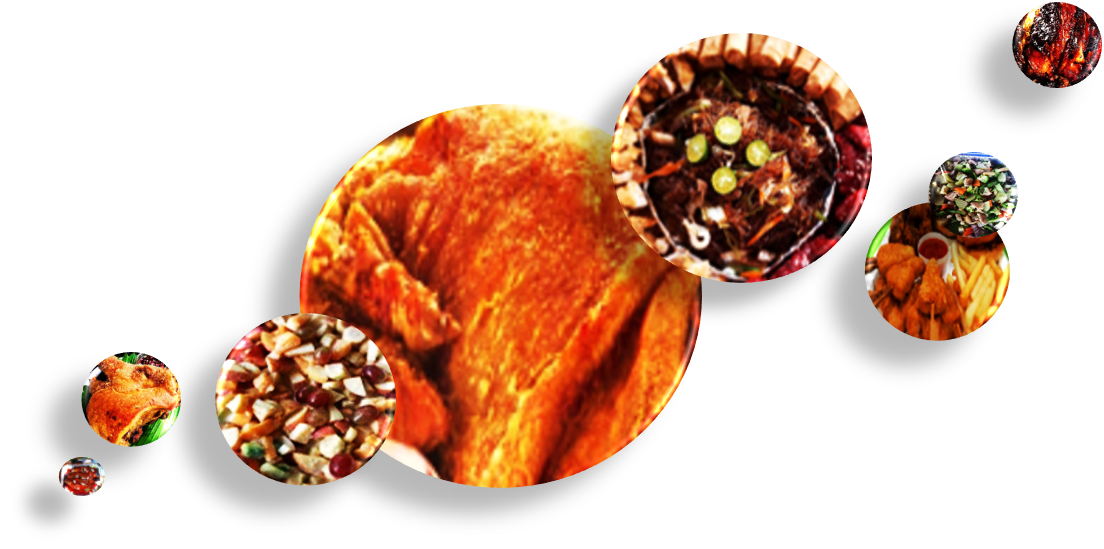
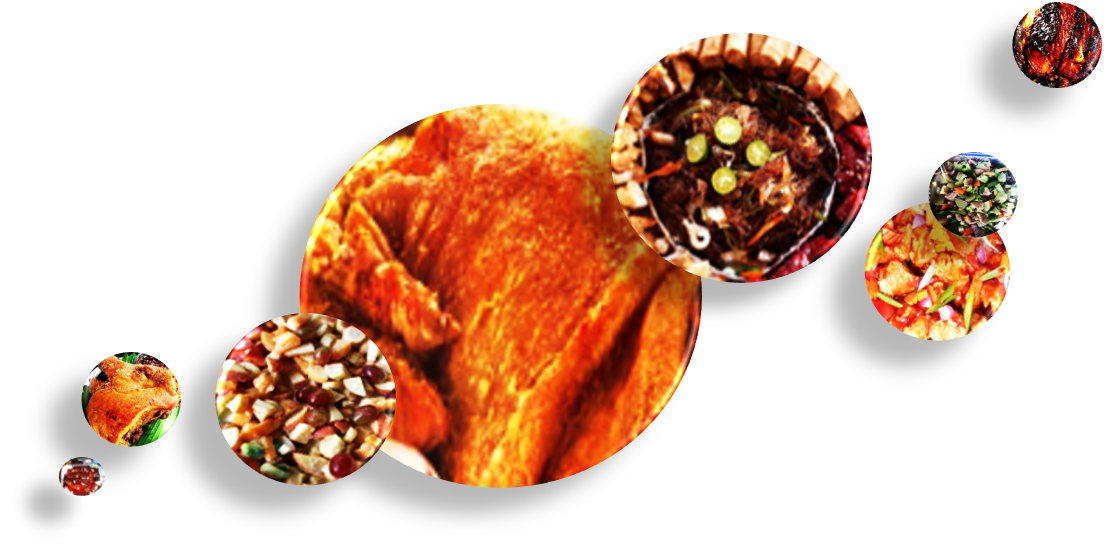
sixth commit

Changed region(s): [[0.7699, 0.3716, 0.9239, 0.6193]]

diff --git a/service.html b/service.html
@@ -2,7 +2,7 @@
 <html>
 <head>
 	<meta charset="utf-8">
-	<meta name="keywords" content=" MG Food Services and Catering Services Maramag Bukidnon Philippines">
+	<meta name="keywords" content="MG Food Services and Catering Services Maramag Bukidnon Philippines">
 	<meta name="description" content="MG Food Services and Catering Services located at Purok 2, Maramag, Philippines.">
 	<meta name="author" content="Witnhess B. Baquirquir">
 	<meta http-equiv="refresh" content="30">
@@ -285,6 +285,77 @@ body {
 						<div class="user user-img13"></div>
 				</div>
 			</li>
+			<!--14----------------------------------------->
+			<li class="item-a">
+				<!--slider------------>
+				<div class="box box-img14"> 
+					<!--details----->
+						<div class="slide-detail">
+							<p>BILAO PACKAGE 08</p>
+							<p>PRICE: N/A</p>
+			
+							</div>
+					<!--user-icon--->
+						<div class="user user-img14"></div>
+				</div>
+			</li>
+			<!--15----------------------------------------->
+			<li class="item-a">
+				<!--slider------------>
+				<div class="box box-img15"> 
+					<!--details----->
+						<div class="slide-detail">
+							<p>BILAO PACKAGE 09</p>
+							<p>PRICE: N/A</p>
+			
+							</div>
+					<!--user-icon--->
+						<div class="user user-img15"></div>
+				</div>
+			</li>
+			<!--16----------------------------------------->
+			<li class="item-a">
+				<!--slider------------>
+				<div class="box box-img16"> 
+					<!--details----->
+						<div class="slide-detail">
+							<p>PALUWAGAN PACKAGE 05</p>
+							<p>PRICE: N/A</p>
+			
+							</div>
+					<!--user-icon--->
+						<div class="user user-img16"></div>
+				</div>
+			</li>
+			<!--17----------------------------------------->
+			<li class="item-a">
+				<!--slider------------>
+				<div class="box box-img17"> 
+					<!--details----->
+						<div class="slide-detail">
+							<p>PALUWAGAN PACKAGE 06</p>
+							<p>PRICE: N/A</p>
+			
+							</div>
+					<!--user-icon--->
+						<div class="user user-img17"></div>
+				</div>
+			</li>
+			<!--18----------------------------------------->
+			<li class="item-a">
+				<!--slider------------>
+				<div class="box box-img18"> 
+					<!--details----->
+						<div class="slide-detail">
+							<p>PALUWAGAN PACKAGE 07</p>
+							<p>PRICE: N/A</p>
+			
+							</div>
+					<!--user-icon--->
+						<div class="user user-img18"></div>
+				</div>
+			</li>
+			
 		</ul>
 		
 	</div>

diff --git a/sample.css b/sample.css
@@ -511,6 +511,36 @@ span {
 
 
 
+@media screen and (min-width: 407px) {
+	.box{
+	width:340px;
+	height:520px;
+	border-radius:5px;
+	box-shadow:2px 6px 30px rgba(0,0,0,0.1);
+	background-color:#fGfGfG;
+	margin:30px;
+	position:relative;
+	background-position:center;
+	background-size:cover;
+	background-repeat:no-repeat;
+	}
+}
+@media screen and (max-width: 406px) {
+	.box{
+	width:220px;
+	height:400px;
+	border-radius:5px;
+	box-shadow:2px 6px 30px rgba(0,0,0,0.1);
+	background-color:#fGfGfG;
+	margin:30px;
+	position:relative;
+	background-position:center;
+	background-size:cover;
+	background-repeat:no-repeat;
+	}
+}
+
+
 
 
 
@@ -745,18 +775,7 @@ button:active {
 	margin-bottom:80px;
 	padding-top: 0px;
 }	
-.box{
-	width:340px;
-	height:520px;
-	border-radius:5px;
-	box-shadow:2px 6px 30px rgba(0,0,0,0.1);
-	background-color:#fGfGfG;
-	margin:30px;
-	position:relative;
-	background-position:center;
-	background-size:cover;
-	background-repeat:no-repeat;
-	}
+
 .box p {
 	font-family:calibri;
 	text-align:center;
@@ -832,6 +851,21 @@ button:active {
 	}
 .box-img13{
 	background-image:url("image/img13.png");
+	}
+.box-img14{
+	background-image:url("image/img14.png");
+	}
+.box-img15{
+	background-image:url("image/img15.png");
+	}
+.box-img16{
+	background-image:url("image/img16.png");
+	}
+.box-img17{
+	background-image:url("image/img17.png");
+	}
+.box-img18{
+	background-image:url("image/img18.png");
 	}
 .user-img01{
 	background-image:url("image/1.png");

diff --git a/index.html b/index.html
@@ -11,7 +11,7 @@
 	<link rel="stylesheet" type="text/css" href="sample.css">
 	<link href="https://fonts.googleapis.com/css?family=Arvo&display=swap" rel="stylesheet">
 	<link href="https://fonts.googleapis.com/css?family=Raleway:400,400i,700" rel="stylesheet">
-	<link rel="stylesheet" type="tex	t/css" href="lightslider.css">
+	<link rel="stylesheet" type="text/css" href="lightslider.css">
 	<!--script jssss---------->
 	<script type="text/javascript" src="Jquery.js"></script>
 	<script type="text/javascript" src="lightslider.js"></script>
@@ -72,7 +72,7 @@
  </div>
  <div class="main-content">
 	<h1>Food Express & Catering Services</h1>
-	<p>We accept catering in all occasion : Wedding, Baptism, Anniversary, <br>even by tray food order and pack lunch.</p>
+	<p>We accept catering in all occasion : Wedding, Baptism, Anniversary, <br>even by tray food order and pack lunch.<br> Contact us, 0916 916 9001.</p>
  </div>
  <div class="main-image"><img src="image/mainpic.png"></div>
  
